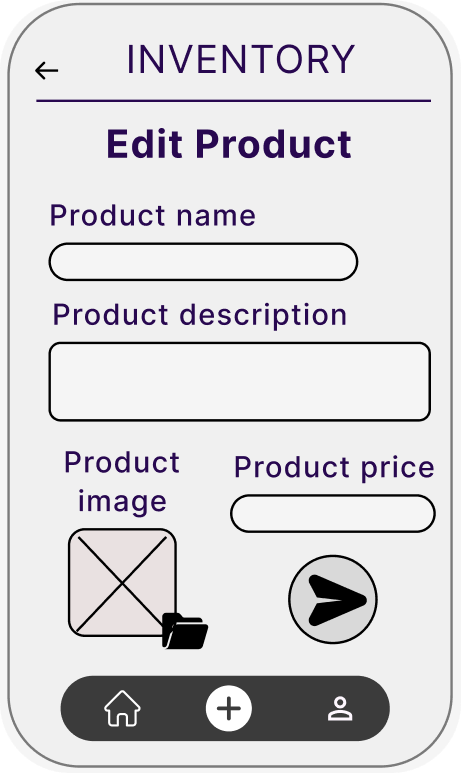
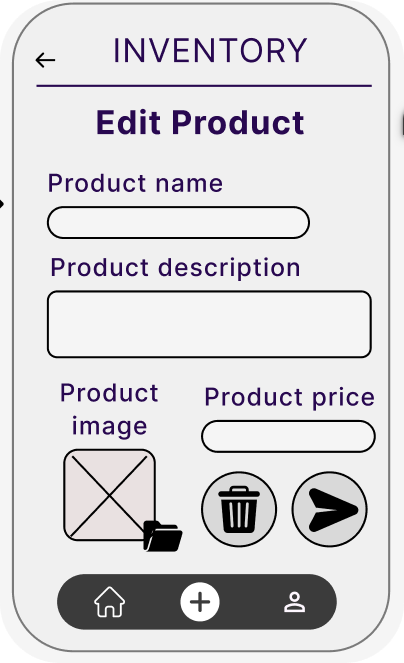
UX content correction

diff --git a/doc/design/ux.md b/doc/design/ux.md
@@ -61,6 +61,11 @@
 
 ---
 
+### 👤 Editar Perfil de Usuario
+<img src="Edit_User_Profile.png" alt="Edit User Profile" width="300"/>
+
+---
+
 ### 🏢 Perfil de Empresa
 <img src="Company_Profile.png" alt="Company Profile" width="300"/>
 